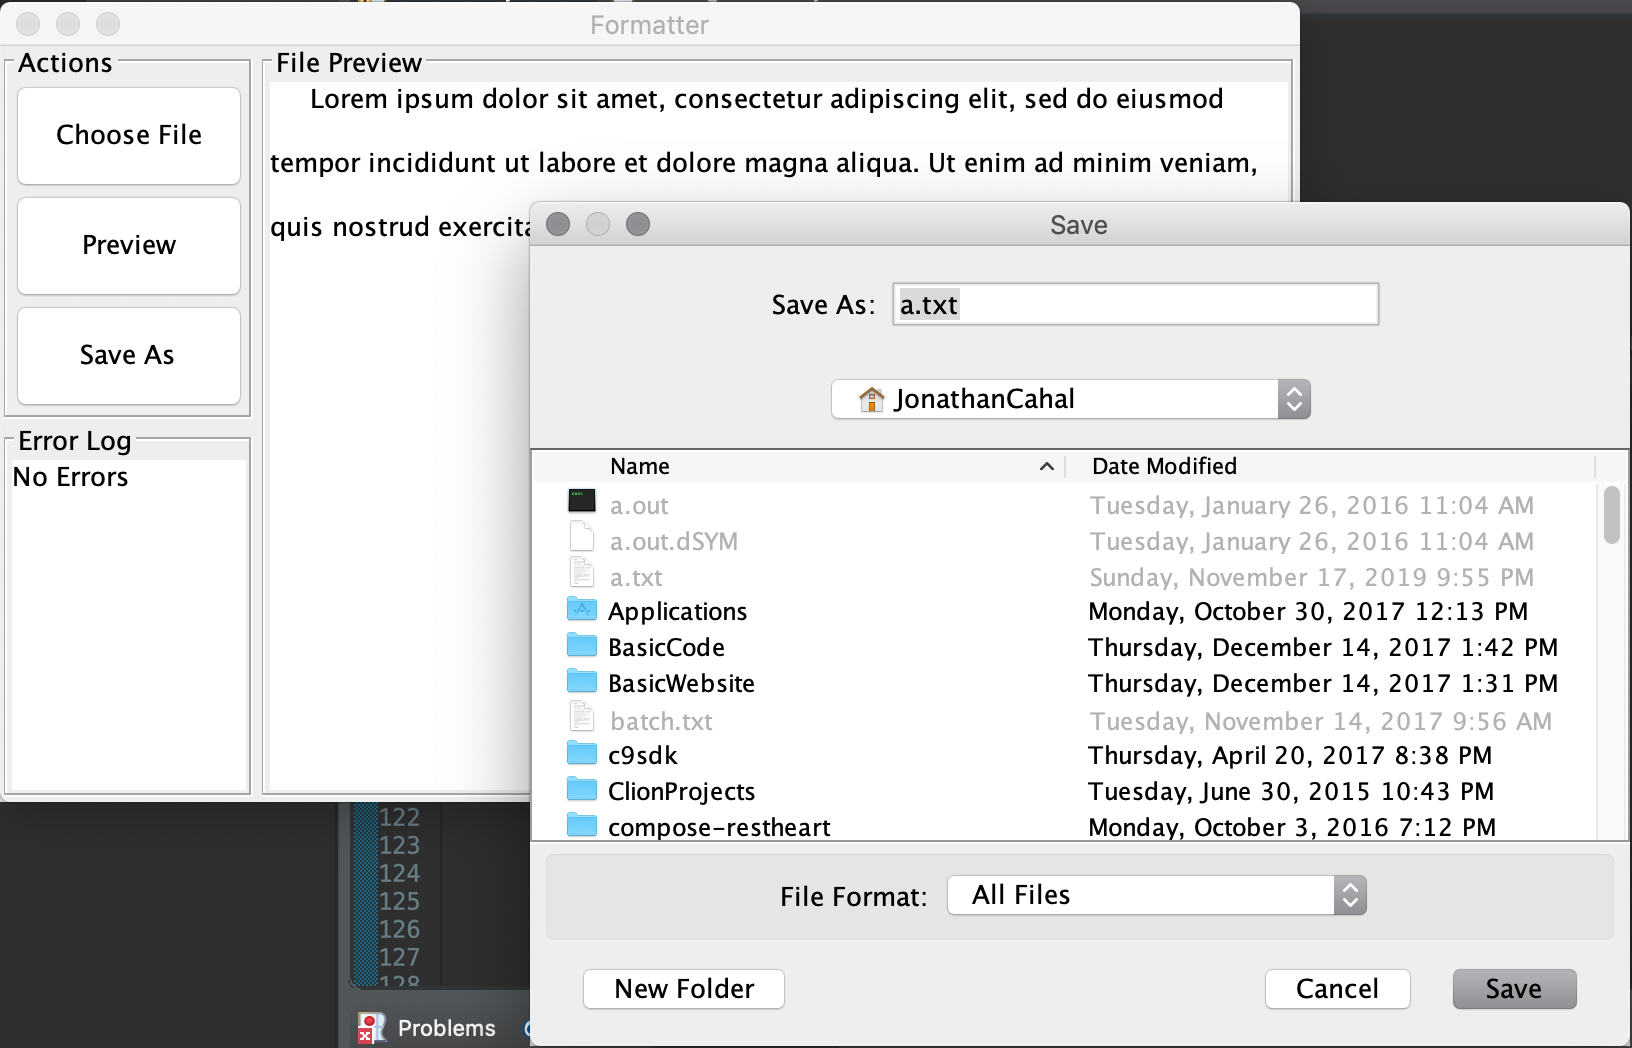
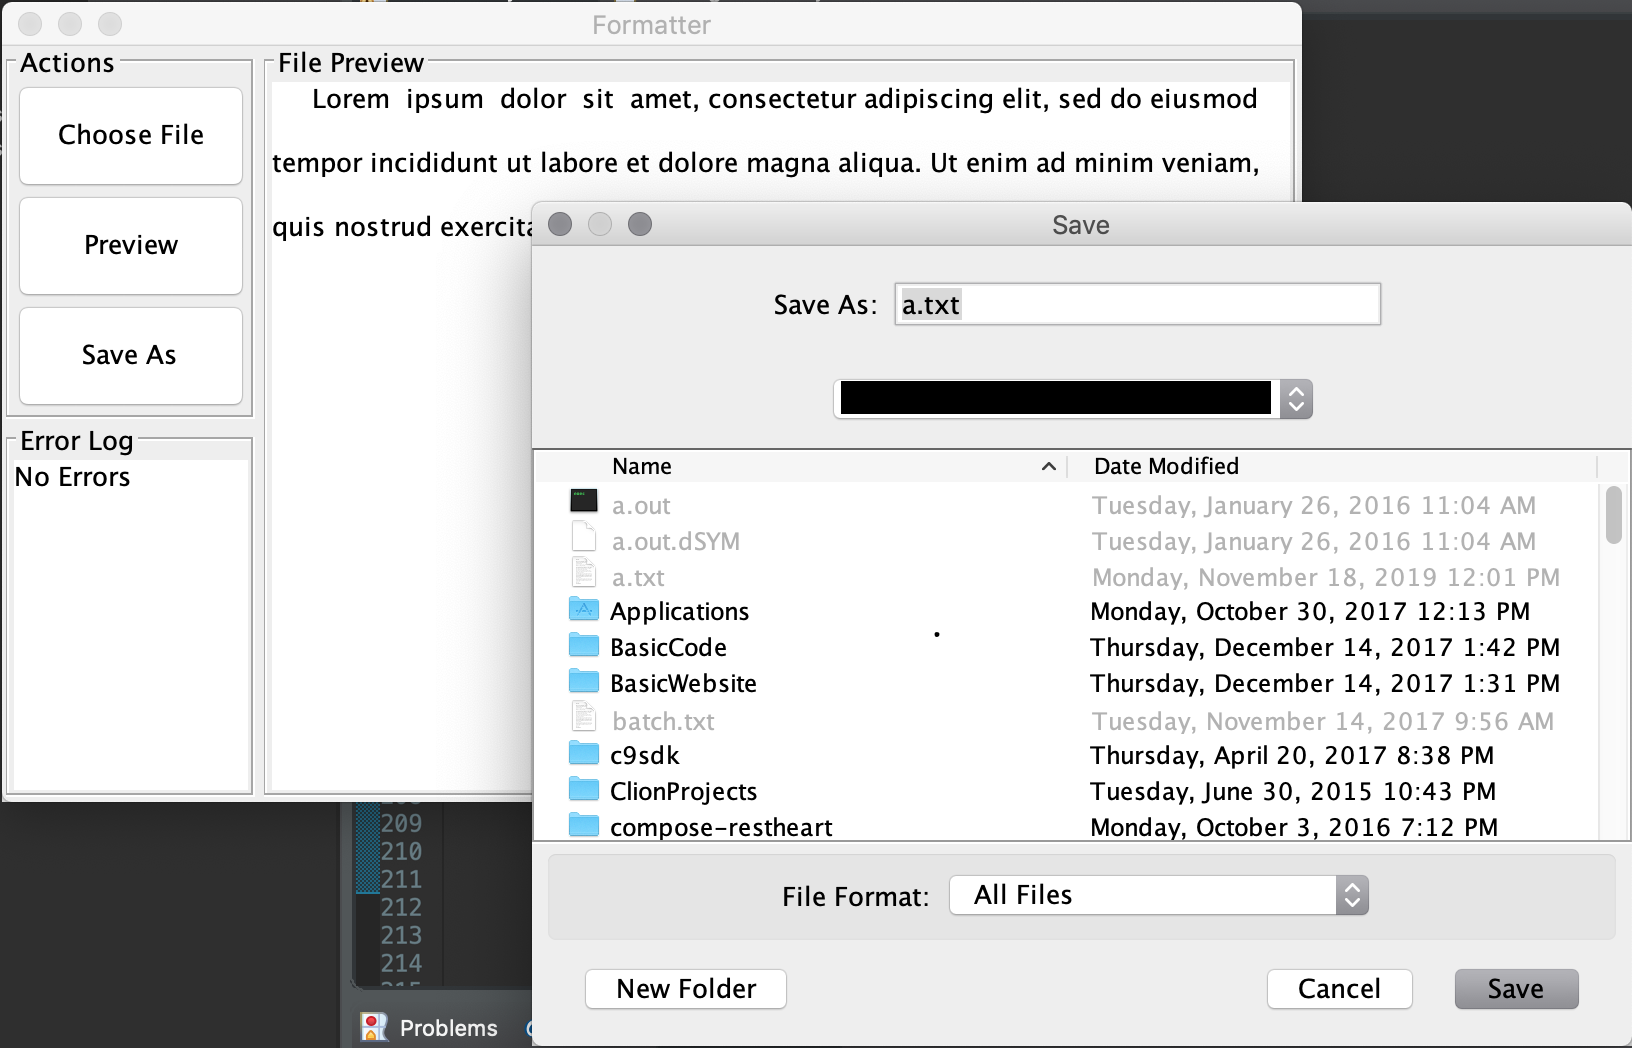
v1.1.1 - Updated sample output and screenshots

diff --git a/Formatter.java b/Formatter.java
@@ -32,7 +32,7 @@ package cse360teamproject;
  * Ruijun Yang<br>
  *  
  * @since 1.0.0
- * @version 1.1.0
+ * @version 1.1.1
  *  
  * @param inputFile
  * @param programFrame
@@ -178,7 +178,7 @@ public class Formatter {
 	 * Ruijun Yang<br>
 	 * 
 	 * @since 1.1.0
-	 * @version 1.0.0
+	 * @version 1.0.1
 	 */
 	
 	private class ActionController implements ActionListener {
@@ -193,7 +193,7 @@ public class Formatter {
 	            
 	         } else if(command.contentEquals("preview")) {
 	        	
-	        	previewTextArea.setText("     Lorem ipsum dolor sit amet, consectetur adipiscing elit, sed do eiusmod" + "\n" + 
+	        	previewTextArea.setText("     Lorem  ipsum  dolor  sit  amet, consectetur adipiscing elit, sed do eiusmod" + "\n" + 
 	        							"\n" +
 	        							"tempor incididunt ut labore et dolore magna aliqua. Ut enim ad minim veniam," + "\n" + 
 	        							"\n" +
